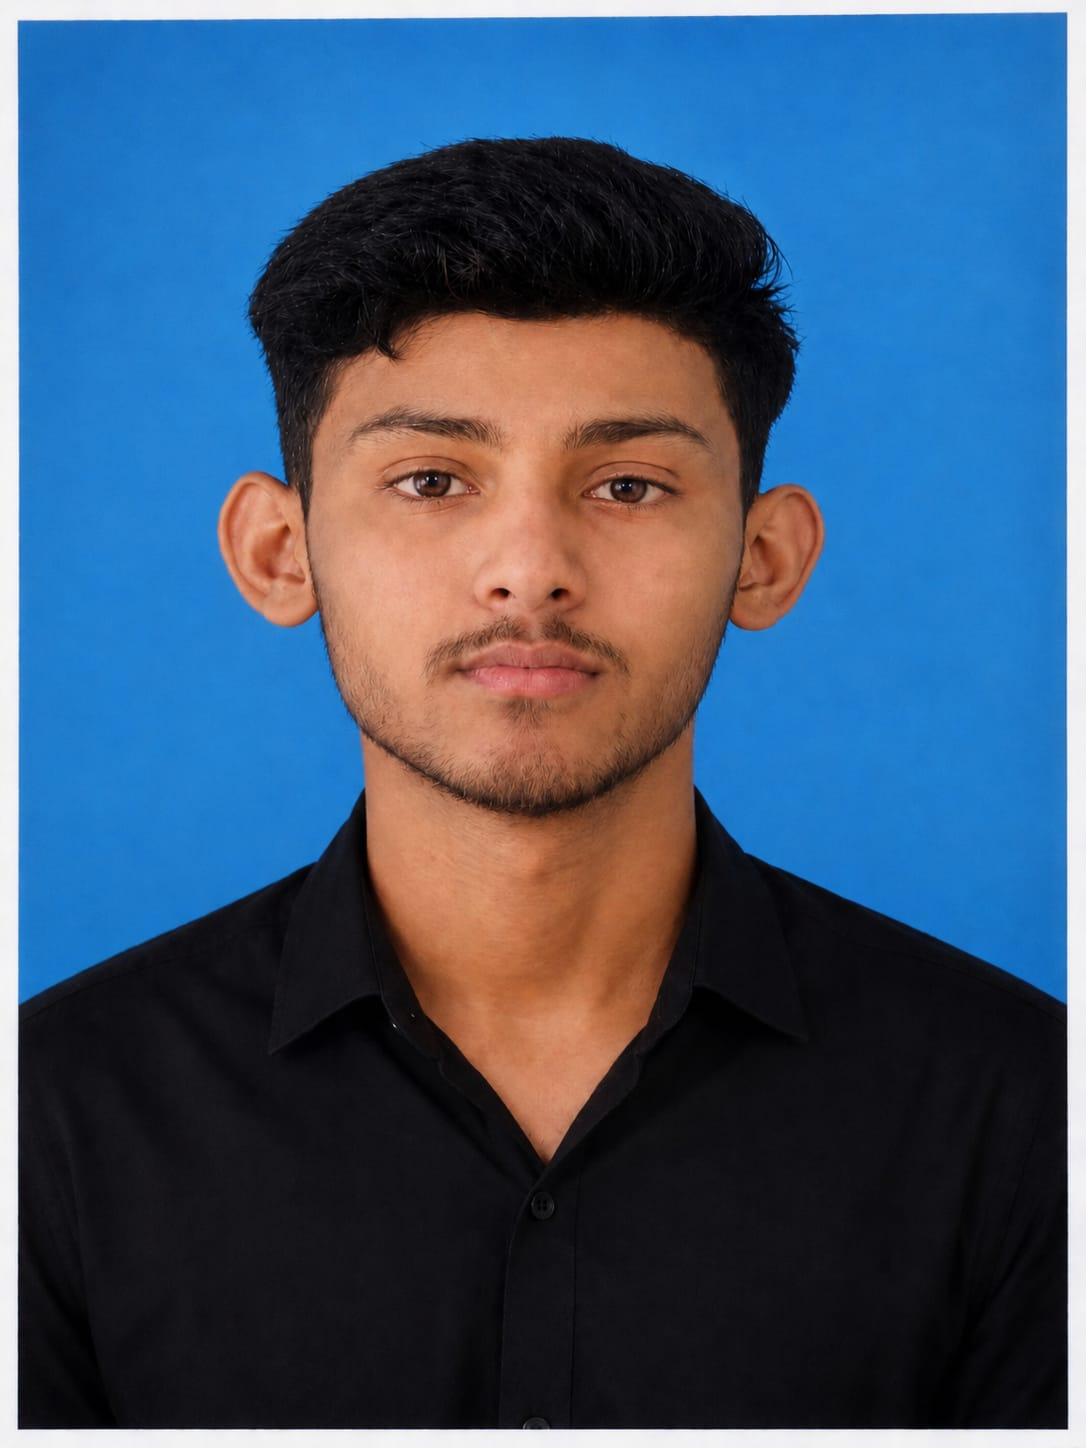
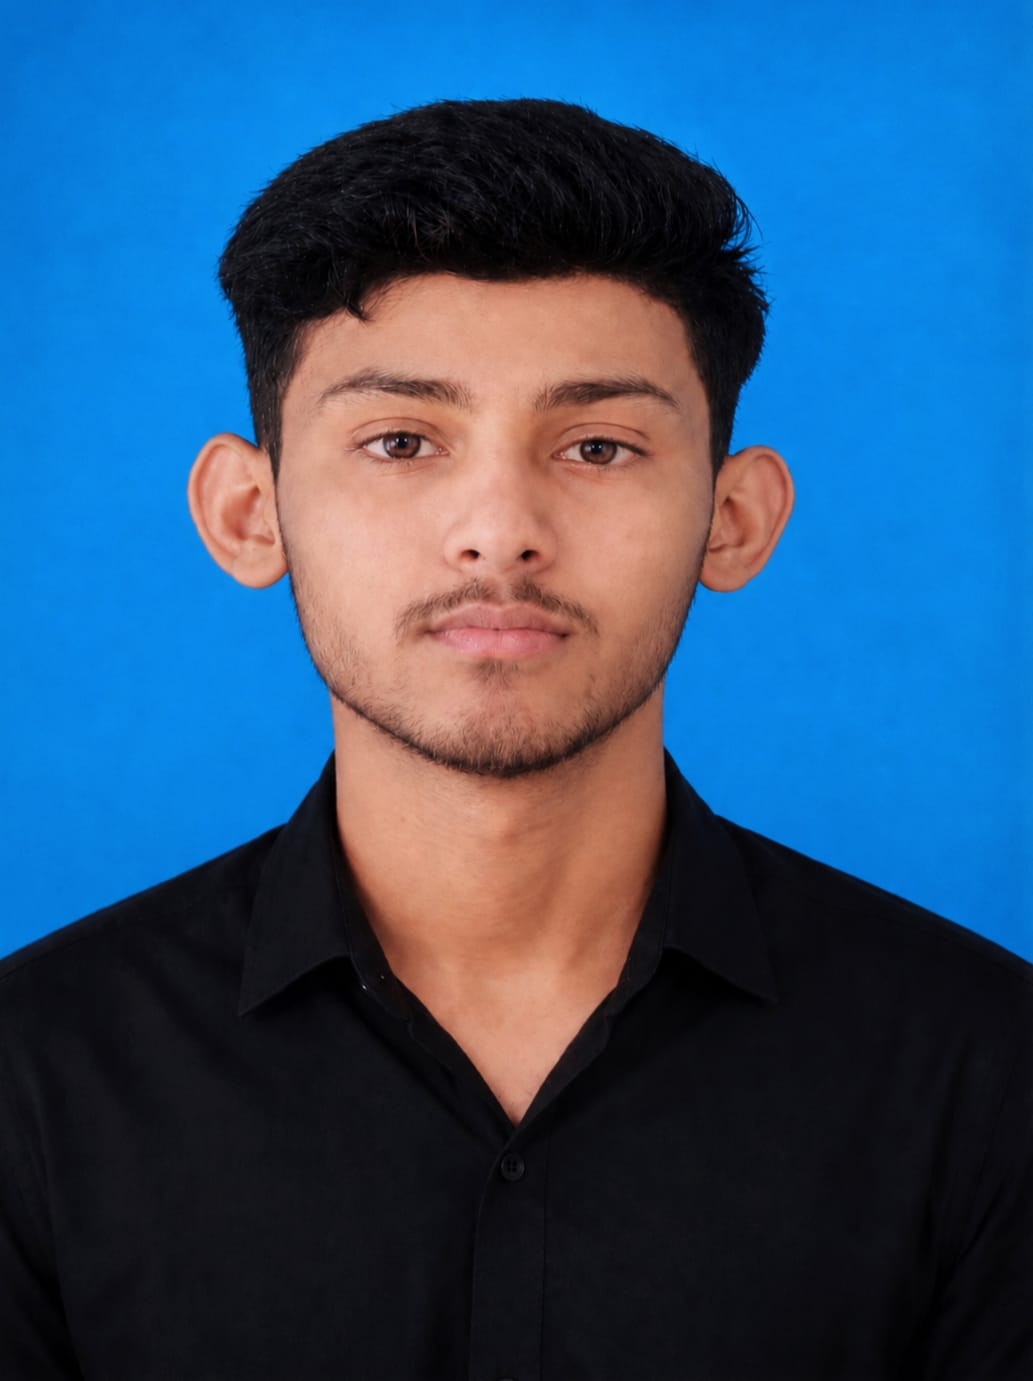
Added intro  section

diff --git a/src/IntroScreen.jsx b/src/IntroScreen.jsx
@@ -1,0 +1,175 @@
+import { useEffect, useState } from "react";
+
+const css = `
+@import url('https://fonts.googleapis.com/css2?family=Poppins:wght@700;800;900&display=swap');
+
+.intro-overlay {
+  position: fixed;
+  inset: 0;
+  background: #050816;
+  display: flex;
+  flex-direction: column;
+  align-items: center;
+  justify-content: center;
+  z-index: 9999;
+  font-family: 'Poppins', sans-serif;
+  transition: opacity 0.7s ease, visibility 0.7s ease;
+}
+.intro-overlay.hide {
+  opacity: 0;
+  visibility: hidden;
+}
+.intro-overlay::before {
+  content: "";
+  position: fixed;
+  inset: 0;
+  background:
+    radial-gradient(circle at 20% 30%, rgba(139,92,246,.3), transparent 40%),
+    radial-gradient(circle at 80% 70%, rgba(34,211,238,.2), transparent 40%);
+  pointer-events: none;
+}
+.ring-wrapper {
+  position: relative;
+  width: 140px;
+  height: 140px;
+  display: flex;
+  align-items: center;
+  justify-content: center;
+  margin-bottom: 28px;
+}
+.ring-svg {
+  position: absolute;
+  inset: 0;
+  animation: spinRing 2s linear infinite;
+}
+@keyframes spinRing {
+  from { transform: rotate(0deg); }
+  to   { transform: rotate(360deg); }
+}
+.avatar-circle {
+  width: 104px;
+  height: 104px;
+  border-radius: 50%;
+  background: #0b1025;
+  border: 2px solid rgba(255,255,255,.1);
+  overflow: hidden;
+  z-index: 1;
+  position: relative;
+}
+.avatar-circle img {
+  width: 100%;
+  height: 100%;
+  object-fit: cover;
+}
+.intro-name {
+  font-size: 30px;
+  font-weight: 800;
+  color: #fff;
+  letter-spacing: 1px;
+  animation: fadeInUp 0.7s ease both;
+  animation-delay: 0.2s;
+}
+.intro-name span {
+  background: linear-gradient(90deg, #8b5cf6, #22d3ee);
+  -webkit-background-clip: text;
+  color: transparent;
+}
+.intro-role {
+  margin-top: 8px;
+  font-size: 13px;
+  color: #a5b4fc;
+  letter-spacing: 3px;
+  text-transform: uppercase;
+  animation: fadeInUp 0.7s ease both;
+  animation-delay: 0.4s;
+}
+.progress-bar {
+  margin-top: 40px;
+  width: 180px;
+  height: 3px;
+  background: rgba(255,255,255,.1);
+  border-radius: 99px;
+  overflow: hidden;
+}
+.progress-fill {
+  height: 100%;
+  width: 0%;
+  background: linear-gradient(90deg, #8b5cf6, #22d3ee);
+  border-radius: 99px;
+  animation: fillBar 2.5s ease forwards;
+}
+@keyframes fillBar { to { width: 100%; } }
+@keyframes fadeInUp {
+  from { opacity: 0; transform: translateY(16px); }
+  to   { opacity: 1; transform: translateY(0); }
+}
+`;
+
+export default function IntroScreen({ onDone }) {
+  const [hide, setHide] = useState(false);
+
+  useEffect(() => {
+    const style = document.createElement("style");
+    style.innerHTML = css;
+    document.head.appendChild(style);
+
+    const timer = setTimeout(() => {
+      setHide(true);
+      setTimeout(onDone, 700);
+    }, 2800);
+
+    return () => {
+      clearTimeout(timer);
+      document.head.removeChild(style);
+    };
+  }, []);
+
+  return (
+    <div className={`intro-overlay ${hide ? "hide" : ""}`}>
+      <div className="ring-wrapper">
+        <svg className="ring-svg" viewBox="0 0 140 140" fill="none">
+          <defs>
+            <linearGradient id="rg" x1="0%" y1="0%" x2="100%" y2="100%">
+              <stop offset="0%" stopColor="#8b5cf6" />
+              <stop offset="60%" stopColor="#22d3ee" />
+              <stop offset="100%" stopColor="#8b5cf6" stopOpacity="0" />
+            </linearGradient>
+          </defs>
+          <circle
+            cx="70"
+            cy="70"
+            r="62"
+            stroke="rgba(255,255,255,0.06)"
+            strokeWidth="4"
+          />
+          <circle
+            cx="70"
+            cy="70"
+            r="62"
+            stroke="url(#rg)"
+            strokeWidth="4"
+            strokeLinecap="round"
+            strokeDasharray="210 180"
+          />
+        </svg>
+        <div className="avatar-circle">
+          <img
+            src="/rehan-photo.jpeg"
+            alt="Md Rehan"
+            onError={(e) => {
+              e.target.style.display = "none";
+            }}
+          />
+        </div>
+      </div>
+
+      <div className="intro-name">
+        Md <span>Rehan</span>
+      </div>
+      <div className="intro-role">Laravel &amp; React Developer</div>
+      <div className="progress-bar">
+        <div className="progress-fill" />
+      </div>
+    </div>
+  );
+}

diff --git a/src/Portfolio.jsx b/src/Portfolio.jsx
@@ -510,7 +510,7 @@ const skills = [
   ["🗄", "MySQL"],
   ["📝", "WordPress"],
   ["🔁", "REST APIs"],
-  ["🛠", "Git & GitHub"],
+  ["🛠", "Git & GitHb"],
 ];
 
 const projects = [
@@ -586,7 +586,7 @@ const projects = [
     desc: "Modern animated developer portfolio built using React.js. Features smooth scrolling, Framer Motion animations, project showcase, resume preview, GitHub integration, and responsive design.",
     stack: ["React.js", "Framer Motion", "CSS", "Vite"],
     gh: "https://github.com/mdrehan8084/my-portfolio-animated",
-    live: "#",
+    live: "https://my-portfolio-animated-beta.vercel.app/",
   },
 ];
 

diff --git a/src/App.jsx b/src/App.jsx
@@ -1,7 +1,14 @@
-import Portfolio from "./Portfolio";
+import { useState } from "react";
+import IntroScreen from "./IntroScreen";
+import Portfolio from "./Portfolio"; // aapka main file
 
-function App() {
-  return <Portfolio />;
+export default function App() {
+  const [loaded, setLoaded] = useState(false);
+
+  return (
+    <>
+      {!loaded && <IntroScreen onDone={() => setLoaded(true)} />}
+      <Portfolio />
+    </>
+  );
 }
-
-export default App;
